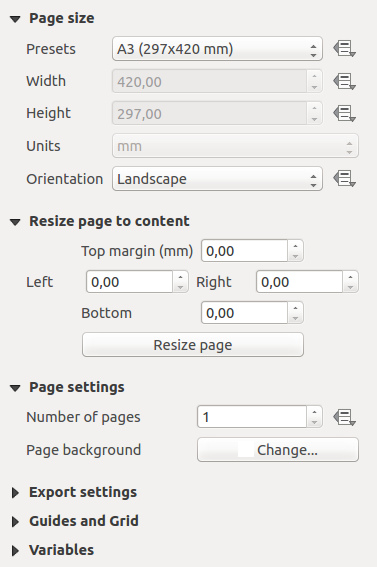
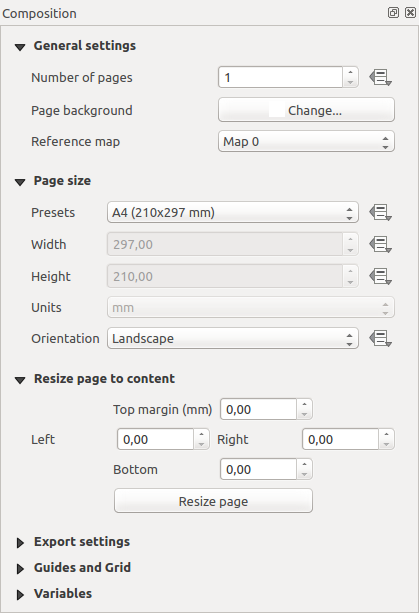
Updates changes to world file option renaming Fixes 1622

Changed region(s): [[0.0, 0.0, 0.9629, 0.6296], [0.0, 0.0, 1.0, 1.0], [0.7878, 0.5996, 0.817, 0.6296]]

diff --git a/source/docs/user_manual/print_composer/overview_composer.rst b/source/docs/user_manual/print_composer/overview_composer.rst
@@ -367,12 +367,8 @@ To maximise the space available to interact with a composition you can use
 Composition Tab
 ---------------
 
-Page size and settings
-......................
-
 In the :guilabel:`Composition` tab, you can define the global settings of the
 current composition.
-
 
 .. _figure_composition:
 
@@ -381,18 +377,31 @@ current composition.
 
    Composition settings in the Print Composer
 
-You can choose one of the :guilabel:`Presets` formats for your paper sheet,
-or enter your custom :guilabel:`width`, :guilabel:`height` and :guilabel:`units`.
-You can also choose the page :guilabel:`Orientation` to use.
+General settings
+................
 
 Composition can be divided into several pages. For instance, a first page can show
 a map canvas, and a second page can show the attribute table associated with a
 layer, while a third one shows an HTML frame linking to your organization website.
-Set the :guilabel:`Number of pages` to the desired value. you can also custom the
-:guilabel:`Page Background` with the color or the symbol you want.
+Set the :guilabel:`Number of pages` to the desired value. You can also
+custom the :guilabel:`Page Background` with the color or the symbol you want.
 
-The Page size options apply to all the pages in the composition. However, you can
-modify the values using the data defined override options (see :ref:`atlas_data_defined_override`).
+The :guilabel:`reference map` select the map item to be used as the
+composition's master map. The map composer will use this map in any
+properties and variable calculating units or scale. This includes exporting
+the composition to georeferenced formats.
+
+Page size and resize
+....................
+
+In the :guilabel:`Page size` group, you can choose one of the
+:guilabel:`Presets` formats for your paper sheet, or enter your custom
+:guilabel:`width`, :guilabel:`height` and :guilabel:`units`.
+You can also choose the page :guilabel:`Orientation` to use.
+
+The Page size options apply to all the pages in the composition. However,
+you can modify the values using the data defined override options (see
+:ref:`atlas_data_defined_override`).
 
 A custom page size can also be set, using the :guilabel:`Resize page` tool.
 This creates an unique page composition, resizes the page to fit the current
@@ -405,14 +414,15 @@ Export settings
 You can define a resolution to use for all exported maps in :guilabel:`Export
 resolution`. This setting can, however, be overridden each time you are
 exporting a map.
+
 When checked, |checkbox| :guilabel:`print as raster` means all elements will be
 rasterized before printing or saving as PostScript or PDF.
 
 While exporting to an image file format, you can choose to generate a world file
-by checking |checkbox| :guilabel:`Save world file` and select a map item in
-|selectString| :guilabel:`Reference map`. The world file is created beside
-the exported map, has the same name and contains information to georeference
-it easily.
+by checking |checkbox| :guilabel:`Save world file` using the map selected in
+|selectString| :guilabel:`Reference map` in the :guilabel:`general settings`
+group. The world file is created beside the exported map, has the same name
+and contains information to georeference it easily.
 
 .. _figure_composition_export:
 
